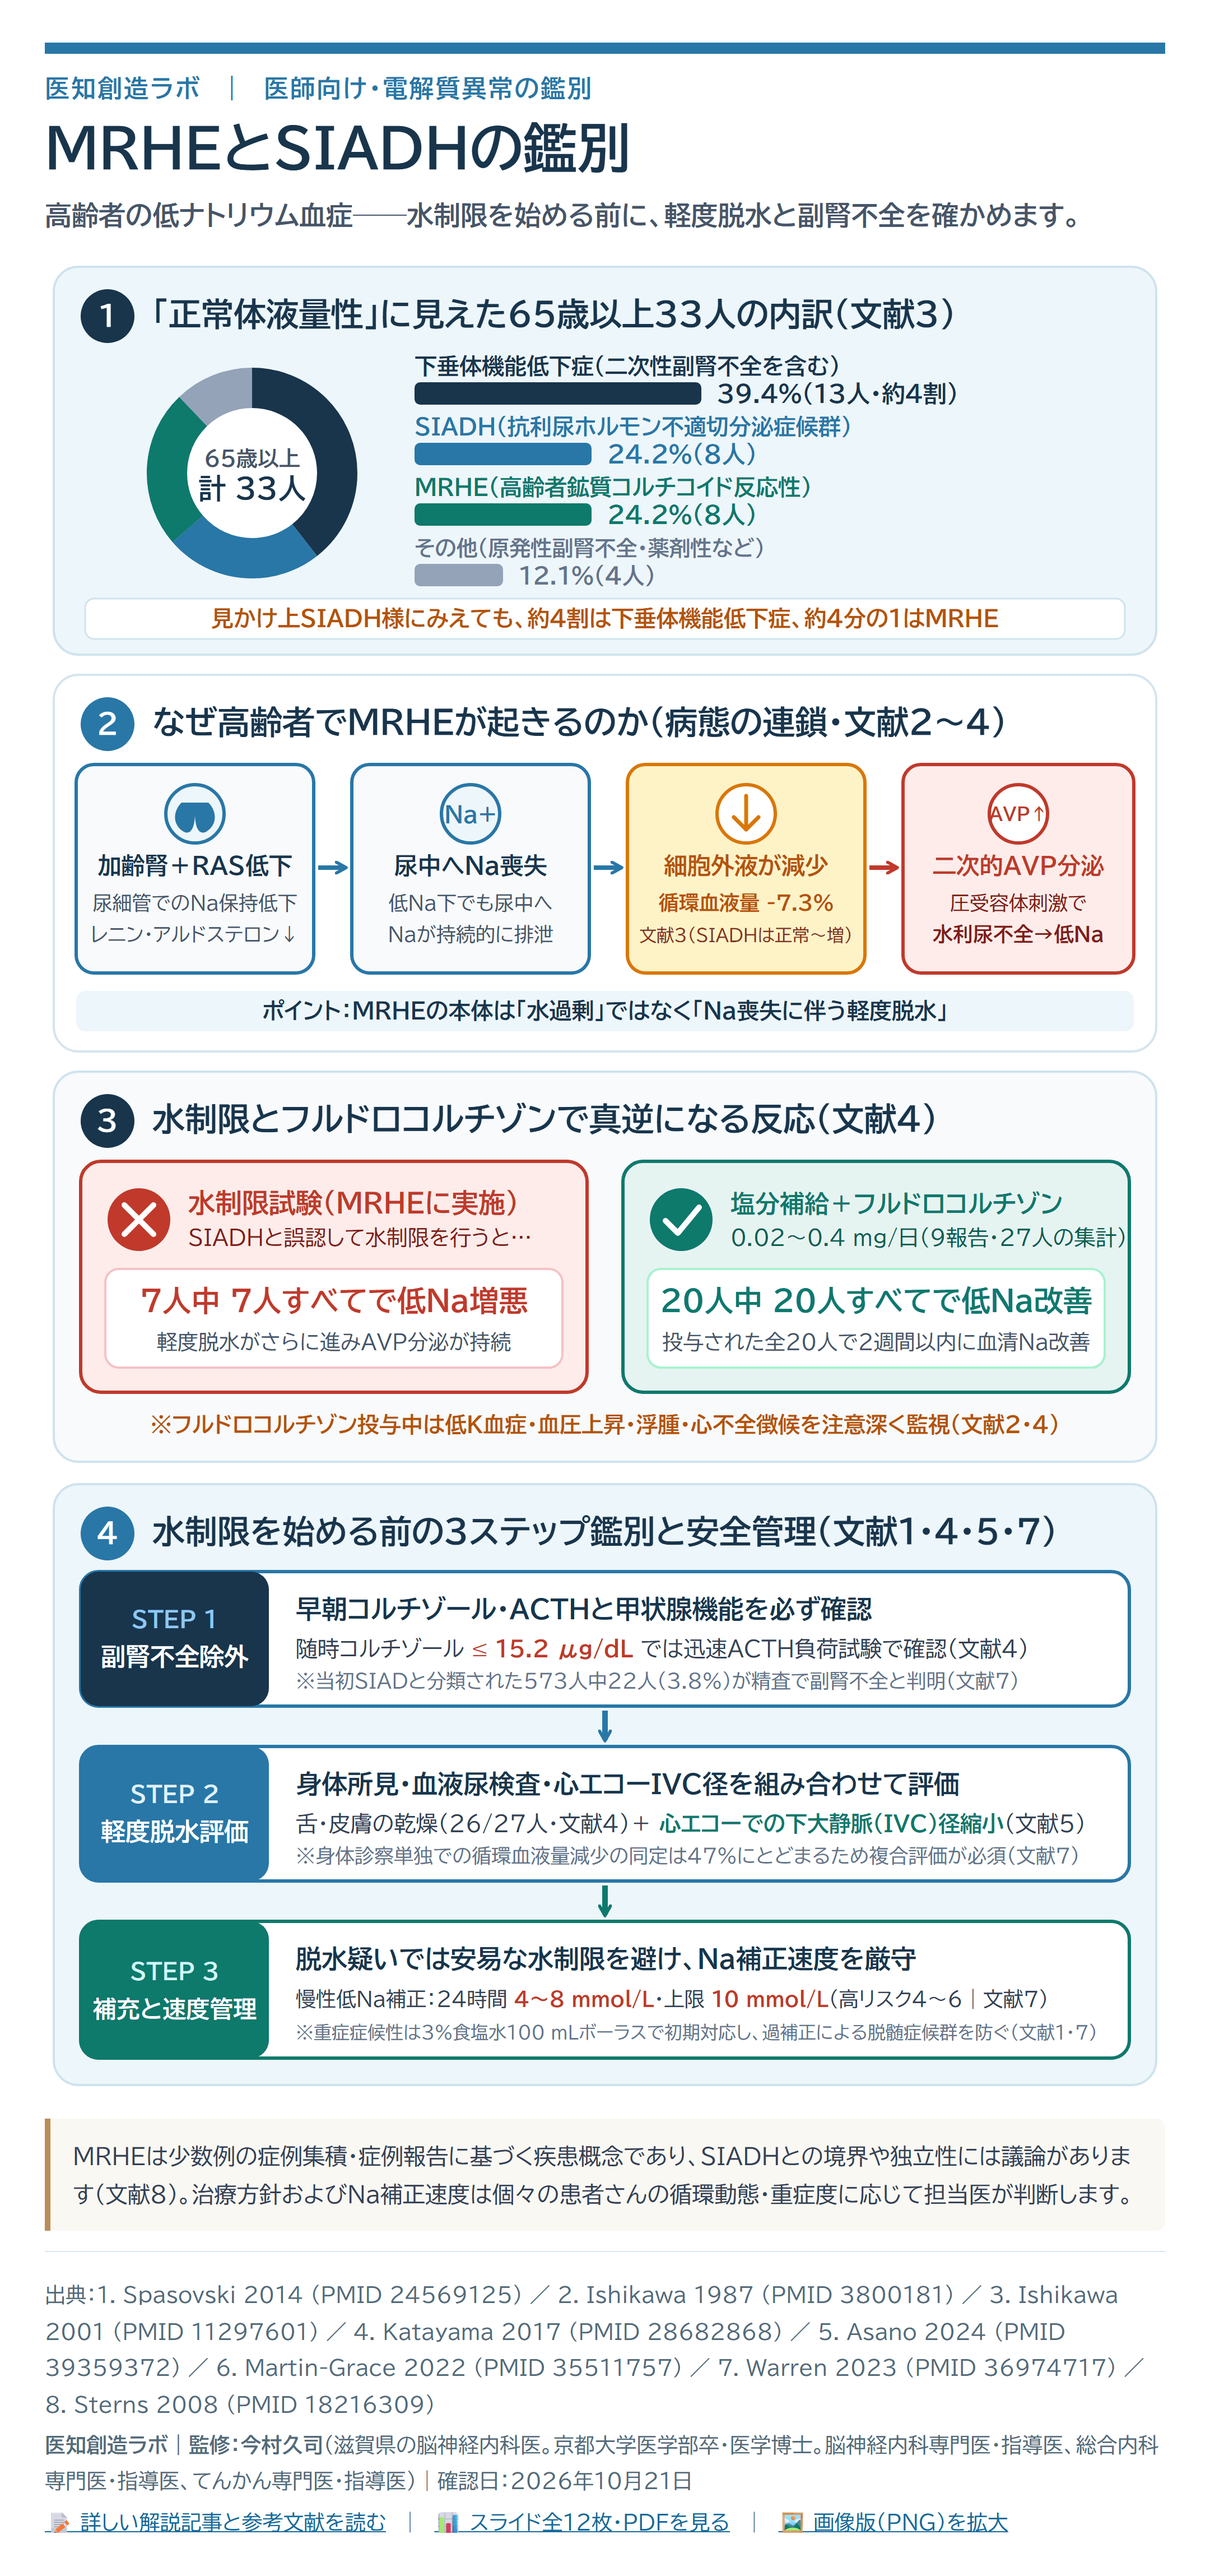
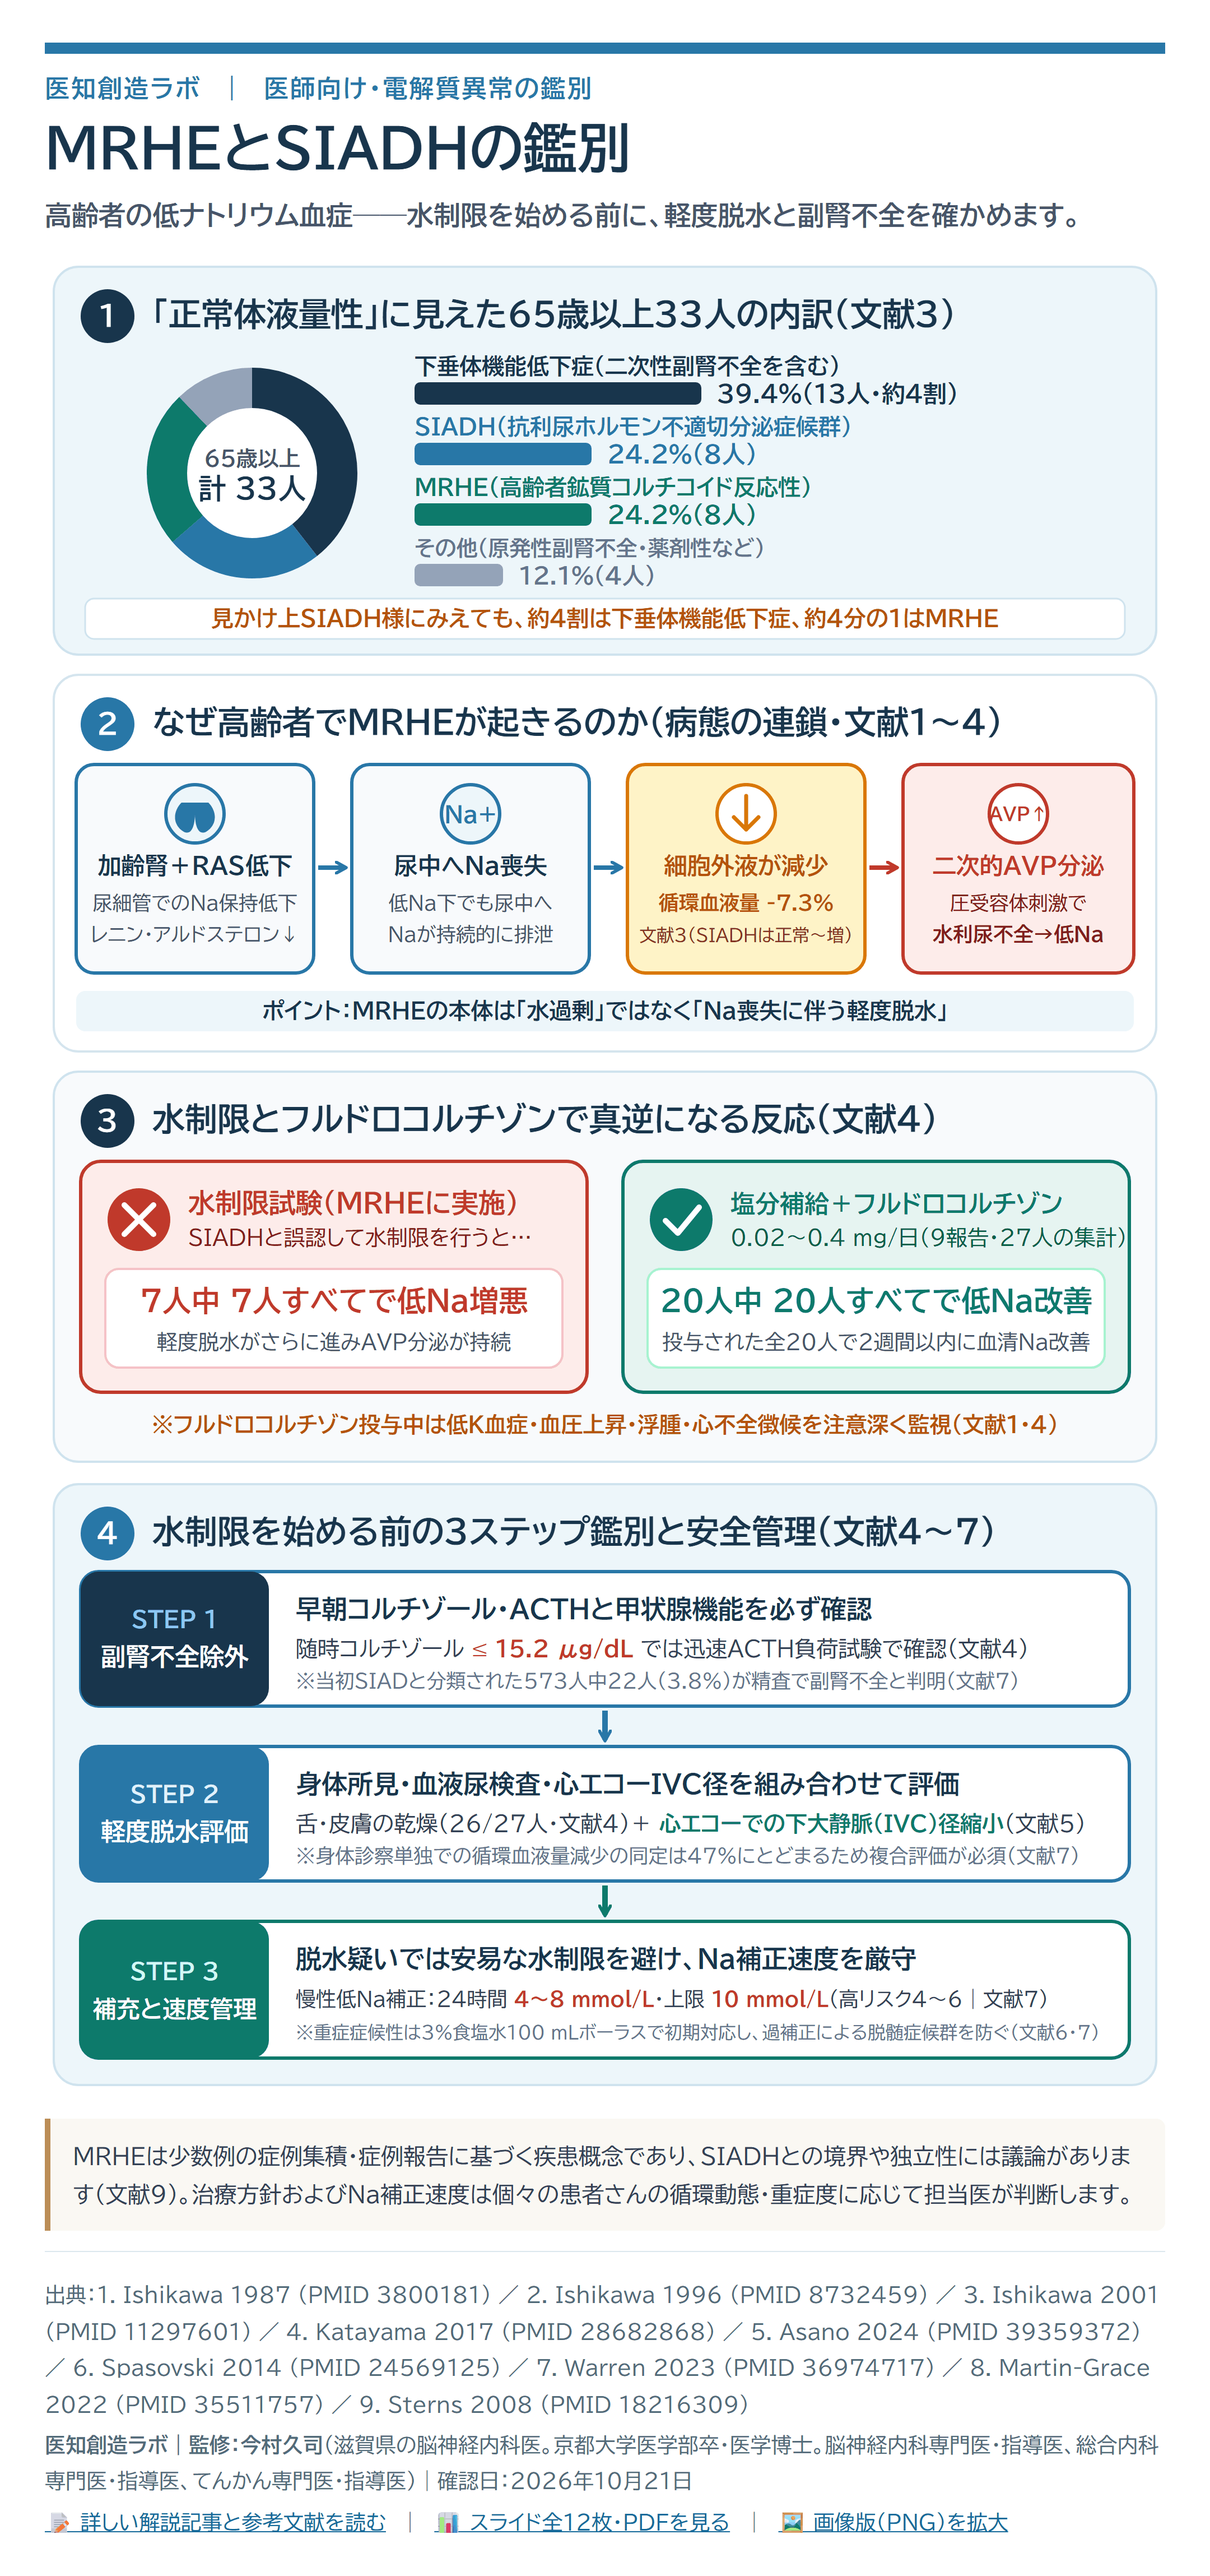
chore(mrhe-siadh-differential): align infographic footer citations with article ref1-9

diff --git a/infographics/mrhe-siadh-differential/index.html b/infographics/mrhe-siadh-differential/index.html
@@ -114,7 +114,7 @@ a{color:#176b9b;overflow-wrap:anywhere}
 <rect x="8" y="376" width="984" height="336" rx="22" fill="#ffffff" stroke="#d5e5ee" stroke-width="2"/>
 <circle cx="56" cy="420" r="24" fill="#2877a7"/>
 <text x="56" y="429" font-size="25" font-weight="700" text-anchor="middle" style="fill:#fff">2</text>
-<text x="96" y="429" font-size="29" font-weight="700">なぜ高齢者でMRHEが起きるのか（病態の連鎖・文献2〜4）</text>
+<text x="96" y="429" font-size="29" font-weight="700">なぜ高齢者でMRHEが起きるのか（病態の連鎖・文献1〜4）</text>
 
 <!-- Step A -->
 <g transform="translate(28, 456)">
@@ -192,13 +192,13 @@ a{color:#176b9b;overflow-wrap:anywhere}
   <text x="226" y="168" font-size="18.5" text-anchor="middle" style="fill:#475569">投与された全20人で2週間以内に血清Na改善</text>
 </g>
 
-<text x="500" y="1052" font-size="19.5" font-weight="700" text-anchor="middle" style="fill:#b45309">※フルドロコルチゾン投与中は低K血症・血圧上昇・浮腫・心不全徴候を注意深く監視（文献2・4）</text>
+<text x="500" y="1052" font-size="19.5" font-weight="700" text-anchor="middle" style="fill:#b45309">※フルドロコルチゾン投与中は低K血症・血圧上昇・浮腫・心不全徴候を注意深く監視（文献1・4）</text>
 
 <!-- ==================== SECTION 4: 3ステップ鑑別と安全管理 ==================== -->
 <rect x="8" y="1098" width="984" height="536" rx="22" fill="#edf6fa" stroke="#cfe3ee" stroke-width="2"/>
 <circle cx="56" cy="1142" r="24" fill="#2877a7"/>
 <text x="56" y="1151" font-size="25" font-weight="700" text-anchor="middle" style="fill:#fff">4</text>
-<text x="96" y="1151" font-size="29" font-weight="700">水制限を始める前の3ステップ鑑別と安全管理（文献1・4・5・7）</text>
+<text x="96" y="1151" font-size="29" font-weight="700">水制限を始める前の3ステップ鑑別と安全管理（文献4〜7）</text>
 
 <!-- Step 1 -->
 <g transform="translate(32, 1176)">
@@ -234,17 +234,17 @@ a{color:#176b9b;overflow-wrap:anywhere}
   <text x="84" y="86" font-size="21" font-weight="700" text-anchor="middle" style="fill:#ffffff">補充と速度管理</text>
   <text x="192" y="42" font-size="23" font-weight="700">脱水疑いでは安易な水制限を避け、Na補正速度を厳守</text>
   <text x="192" y="76" font-size="18" style="fill:#334155">慢性低Na補正：24時間 <tspan font-weight="700" style="fill:#c0392b">4〜8 mmol/L</tspan>・上限 <tspan font-weight="700" style="fill:#c0392b">10 mmol/L</tspan>（高リスク4〜6｜文献7）</text>
-  <text x="192" y="105" font-size="16" style="fill:#64748b">※重症症候性は3%食塩水100 mLボーラスで初期対応し、過補正による脱髄症候群を防ぐ（文献1・7）</text>
+  <text x="192" y="105" font-size="16" style="fill:#64748b">※重症症候性は3%食塩水100 mLボーラスで初期対応し、過補正による脱髄症候群を防ぐ（文献6・7）</text>
 </g>
 </svg>
 </section>
 
 <div class="limits">
-  MRHEは少数例の症例集積・症例報告に基づく疾患概念であり、SIADHとの境界や独立性には議論があります（文献8）。治療方針およびNa補正速度は個々の患者さんの循環動態・重症度に応じて担当医が判断します。
+  MRHEは少数例の症例集積・症例報告に基づく疾患概念であり、SIADHとの境界や独立性には議論があります（文献9）。治療方針およびNa補正速度は個々の患者さんの循環動態・重症度に応じて担当医が判断します。
 </div>
 
 <footer class="foot">
-  <p>出典：1. Spasovski 2014 (PMID 24569125) ／ 2. Ishikawa 1987 (PMID 3800181) ／ 3. Ishikawa 2001 (PMID 11297601) ／ 4. Katayama 2017 (PMID 28682868) ／ 5. Asano 2024 (PMID 39359372) ／ 6. Martin-Grace 2022 (PMID 35511757) ／ 7. Warren 2023 (PMID 36974717) ／ 8. Sterns 2008 (PMID 18216309)</p>
+  <p>出典：1. Ishikawa 1987 (PMID 3800181) ／ 2. Ishikawa 1996 (PMID 8732459) ／ 3. Ishikawa 2001 (PMID 11297601) ／ 4. Katayama 2017 (PMID 28682868) ／ 5. Asano 2024 (PMID 39359372) ／ 6. Spasovski 2014 (PMID 24569125) ／ 7. Warren 2023 (PMID 36974717) ／ 8. Martin-Grace 2022 (PMID 35511757) ／ 9. Sterns 2008 (PMID 18216309)</p>
   <p><strong>医知創造ラボ｜監修：今村久司</strong>（滋賀県の脳神経内科医。京都大学医学部卒・医学博士。脳神経内科専門医・指導医、総合内科専門医・指導医、てんかん専門医・指導医）｜確認日：2026年10月21日</p>
   <p><a href="https://blog.ichisouzo-lab.com/entry/2025/07/29/073902">📝 詳しい解説記事と参考文献を読む</a>　｜　<a href="https://tools.ichisouzo-lab.com/slides/mrhe-siadh-differential/">📊 スライド全12枚・PDFを見る</a>　｜　<a href="infographic.png" target="_blank" rel="noopener noreferrer">🖼 画像版（PNG）を拡大</a></p>
 </footer>

diff --git a/slides/mrhe-siadh-differential/infographic.html b/slides/mrhe-siadh-differential/infographic.html
@@ -101,7 +101,7 @@ a{color:#176b9b;overflow-wrap:anywhere}
 <rect x="8" y="376" width="984" height="336" rx="22" fill="#ffffff" stroke="#d5e5ee" stroke-width="2"/>
 <circle cx="56" cy="420" r="24" fill="#2877a7"/>
 <text x="56" y="429" font-size="25" font-weight="700" text-anchor="middle" style="fill:#fff">2</text>
-<text x="96" y="429" font-size="29" font-weight="700">なぜ高齢者でMRHEが起きるのか（病態の連鎖・文献2〜4）</text>
+<text x="96" y="429" font-size="29" font-weight="700">なぜ高齢者でMRHEが起きるのか（病態の連鎖・文献1〜4）</text>
 
 <!-- Step A -->
 <g transform="translate(28, 456)">
@@ -179,13 +179,13 @@ a{color:#176b9b;overflow-wrap:anywhere}
   <text x="226" y="168" font-size="18.5" text-anchor="middle" style="fill:#475569">投与された全20人で2週間以内に血清Na改善</text>
 </g>
 
-<text x="500" y="1052" font-size="19.5" font-weight="700" text-anchor="middle" style="fill:#b45309">※フルドロコルチゾン投与中は低K血症・血圧上昇・浮腫・心不全徴候を注意深く監視（文献2・4）</text>
+<text x="500" y="1052" font-size="19.5" font-weight="700" text-anchor="middle" style="fill:#b45309">※フルドロコルチゾン投与中は低K血症・血圧上昇・浮腫・心不全徴候を注意深く監視（文献1・4）</text>
 
 <!-- ==================== SECTION 4: 3ステップ鑑別と安全管理 ==================== -->
 <rect x="8" y="1098" width="984" height="536" rx="22" fill="#edf6fa" stroke="#cfe3ee" stroke-width="2"/>
 <circle cx="56" cy="1142" r="24" fill="#2877a7"/>
 <text x="56" y="1151" font-size="25" font-weight="700" text-anchor="middle" style="fill:#fff">4</text>
-<text x="96" y="1151" font-size="29" font-weight="700">水制限を始める前の3ステップ鑑別と安全管理（文献1・4・5・7）</text>
+<text x="96" y="1151" font-size="29" font-weight="700">水制限を始める前の3ステップ鑑別と安全管理（文献4〜7）</text>
 
 <!-- Step 1 -->
 <g transform="translate(32, 1176)">
@@ -221,17 +221,17 @@ a{color:#176b9b;overflow-wrap:anywhere}
   <text x="84" y="86" font-size="21" font-weight="700" text-anchor="middle" style="fill:#ffffff">補充と速度管理</text>
   <text x="192" y="42" font-size="23" font-weight="700">脱水疑いでは安易な水制限を避け、Na補正速度を厳守</text>
   <text x="192" y="76" font-size="18" style="fill:#334155">慢性低Na補正：24時間 <tspan font-weight="700" style="fill:#c0392b">4〜8 mmol/L</tspan>・上限 <tspan font-weight="700" style="fill:#c0392b">10 mmol/L</tspan>（高リスク4〜6｜文献7）</text>
-  <text x="192" y="105" font-size="16" style="fill:#64748b">※重症症候性は3%食塩水100 mLボーラスで初期対応し、過補正による脱髄症候群を防ぐ（文献1・7）</text>
+  <text x="192" y="105" font-size="16" style="fill:#64748b">※重症症候性は3%食塩水100 mLボーラスで初期対応し、過補正による脱髄症候群を防ぐ（文献6・7）</text>
 </g>
 </svg>
 </section>
 
 <div class="limits">
-  MRHEは少数例の症例集積・症例報告に基づく疾患概念であり、SIADHとの境界や独立性には議論があります（文献8）。治療方針およびNa補正速度は個々の患者さんの循環動態・重症度に応じて担当医が判断します。
+  MRHEは少数例の症例集積・症例報告に基づく疾患概念であり、SIADHとの境界や独立性には議論があります（文献9）。治療方針およびNa補正速度は個々の患者さんの循環動態・重症度に応じて担当医が判断します。
 </div>
 
 <footer class="foot">
-  <p>出典：1. Spasovski 2014 (PMID 24569125) ／ 2. Ishikawa 1987 (PMID 3800181) ／ 3. Ishikawa 2001 (PMID 11297601) ／ 4. Katayama 2017 (PMID 28682868) ／ 5. Asano 2024 (PMID 39359372) ／ 6. Martin-Grace 2022 (PMID 35511757) ／ 7. Warren 2023 (PMID 36974717) ／ 8. Sterns 2008 (PMID 18216309)</p>
+  <p>出典：1. Ishikawa 1987 (PMID 3800181) ／ 2. Ishikawa 1996 (PMID 8732459) ／ 3. Ishikawa 2001 (PMID 11297601) ／ 4. Katayama 2017 (PMID 28682868) ／ 5. Asano 2024 (PMID 39359372) ／ 6. Spasovski 2014 (PMID 24569125) ／ 7. Warren 2023 (PMID 36974717) ／ 8. Martin-Grace 2022 (PMID 35511757) ／ 9. Sterns 2008 (PMID 18216309)</p>
   <p><strong>医知創造ラボ｜監修：今村久司</strong>（滋賀県の脳神経内科医。京都大学医学部卒・医学博士。脳神経内科専門医・指導医、総合内科専門医・指導医、てんかん専門医・指導医）｜確認日：2026年10月21日</p>
   <p><a href="https://blog.ichisouzo-lab.com/entry/2025/07/29/073902">📝 詳しい解説記事と参考文献を読む</a>　｜　<a href="https://tools.ichisouzo-lab.com/slides/mrhe-siadh-differential/">📊 スライド全12枚・PDFを見る</a>　｜　<a href="infographic.png" target="_blank" rel="noopener noreferrer">🖼 画像版（PNG）を拡大</a></p>
 </footer>
